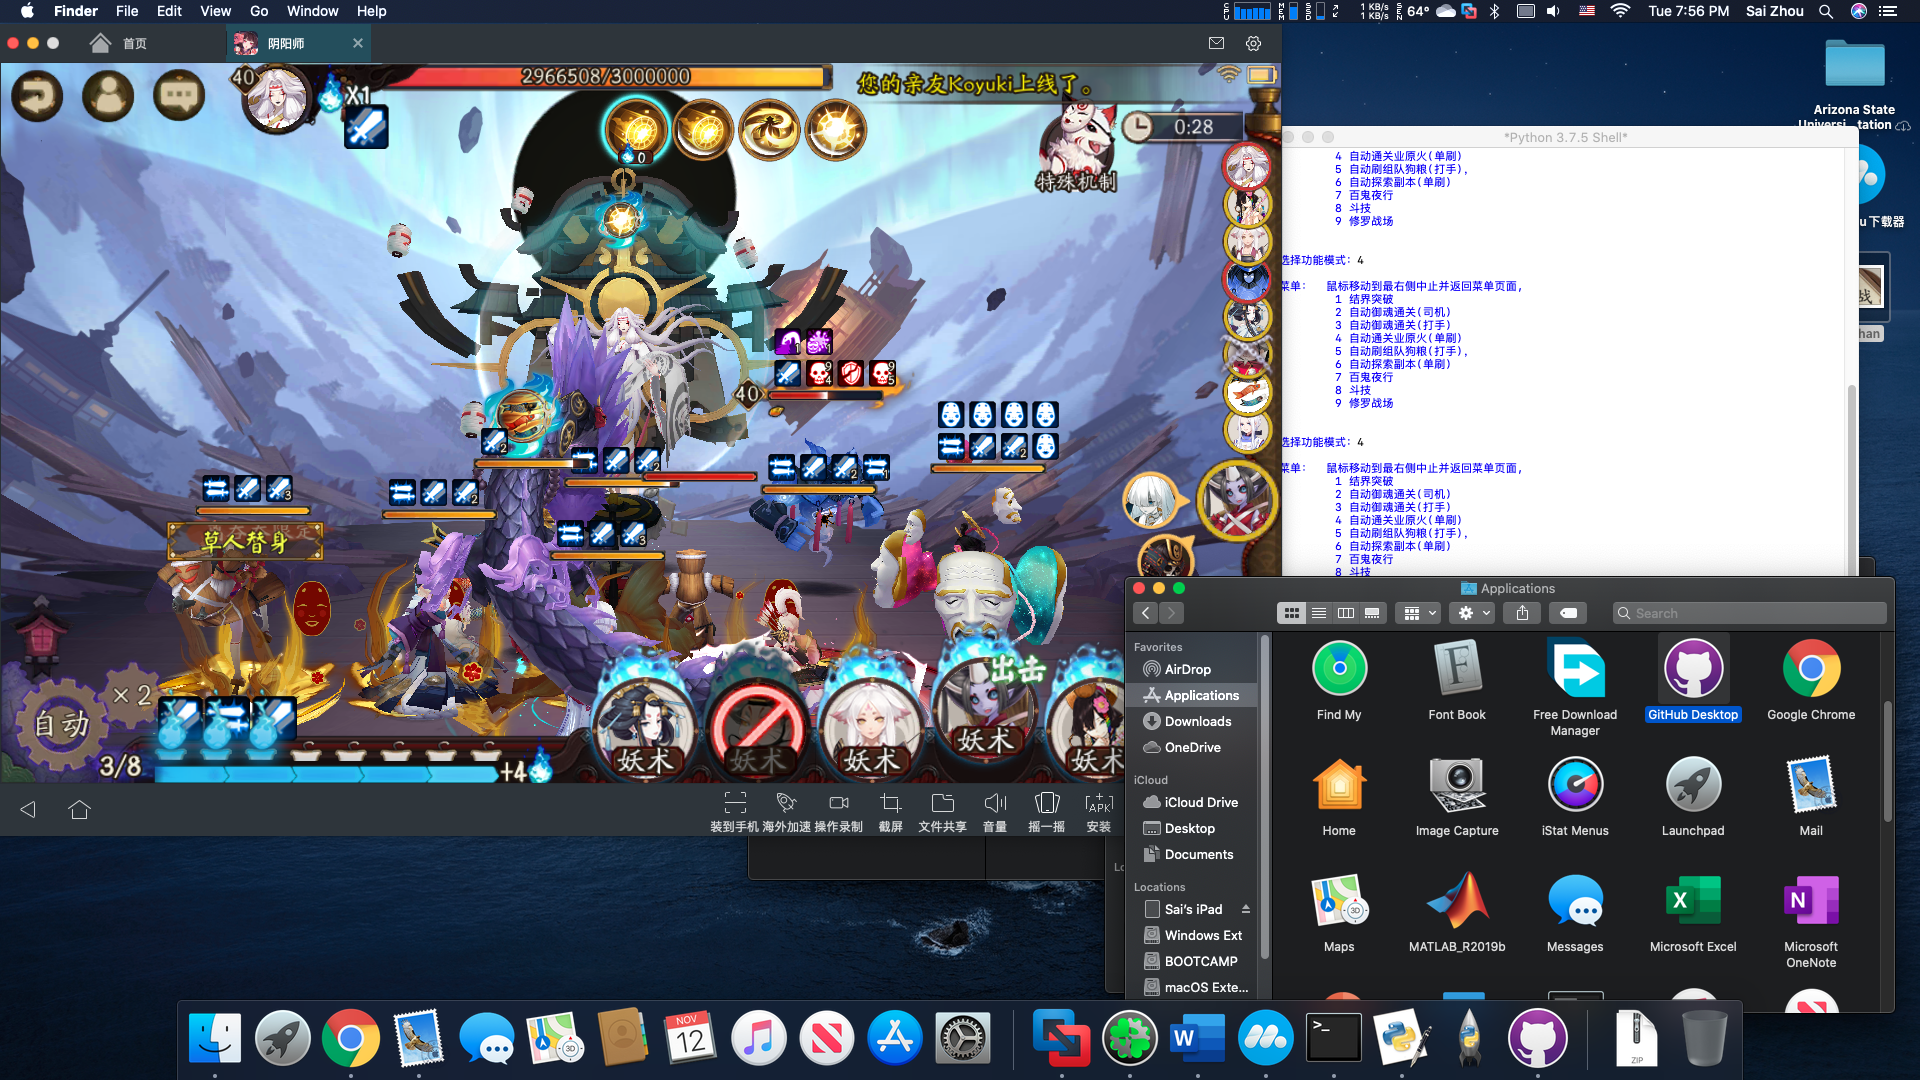
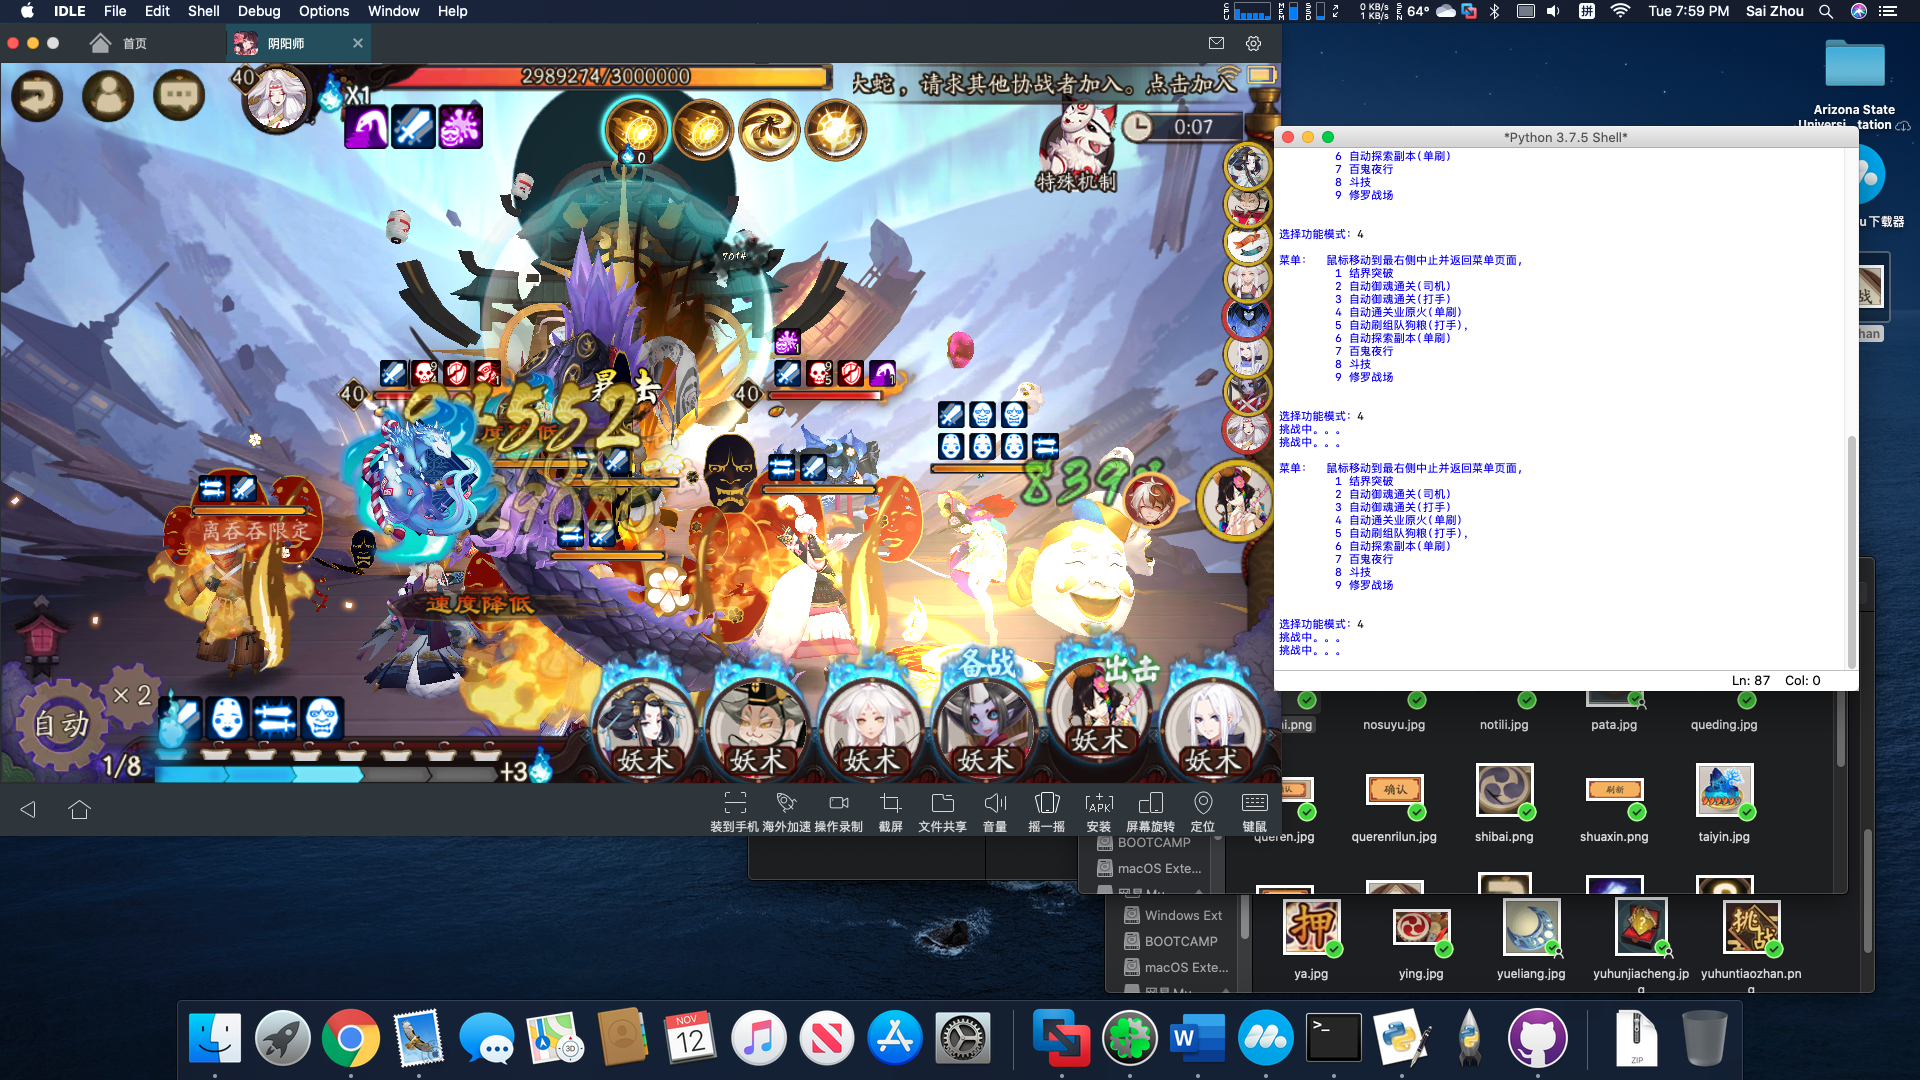
更新文字说明

diff --git a/yys.py b/yys.py
@@ -31,8 +31,8 @@ def select_mode():
         1 结界突破
         2 自动御魂通关(司机)
         3 自动御魂通关(打手)
-        4 自动通关业原火(单刷)
-        5 自动刷组队狗粮(打手)，          
+        4 自动御魂通关(单刷)
+        5 自动探索副本(打手)，          
         6 自动探索副本(单刷)
         7 百鬼夜行
         8 斗技
@@ -42,7 +42,7 @@ def select_mode():
     raw = input("选择功能模式：")
     index = int(raw)
 
-    mode = [0, tupo, yuhun, yuhun2, yeyuanhuo, goliang, solo, baigui, douji, xiuluo]
+    mode = [0, tupo, yuhun, yuhun2, yuhundanren, goliang, solo, baigui, douji, xiuluo]
     comand = mode[index]
     comand()
 
@@ -270,7 +270,7 @@ def yuhun2():
 
 ########################################################
 #业原火通关
-def yeyuanhuo():
+def yuhundanren():
     while True :   #直到取消，或者出错
         if pyautogui.position()[0] >= pyautogui.size()[0] * 0.98:
             select_mode()
